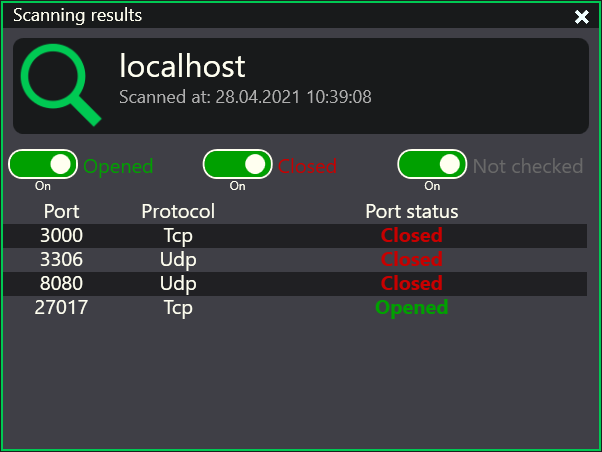
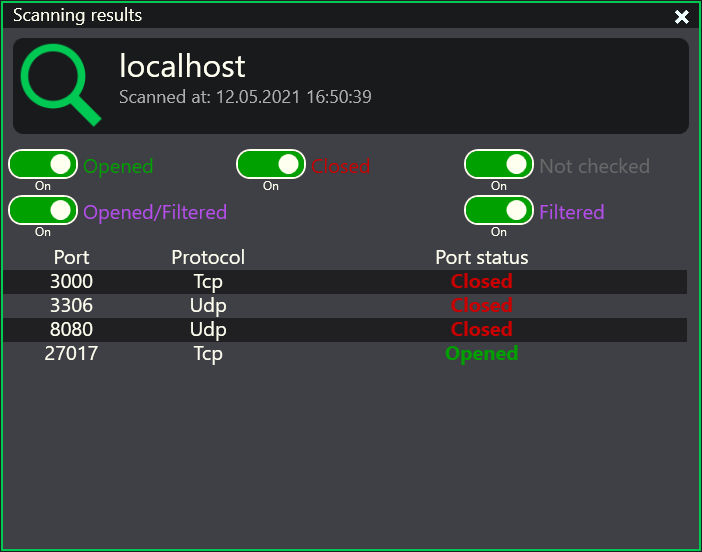
Edit: README and CHANGELOG has been edited - app preparing for v1.1.0 release;

Changed region(s): [[0.0, 0.0, 1.0, 1.0]]

diff --git a/Looto/Views/MainWindow.xaml b/Looto/Views/MainWindow.xaml
@@ -341,7 +341,7 @@
                            VerticalAlignment="Bottom"
                            TextAlignment="Right"
                            Margin="5"
-                           Text="Destry.Unimaster - v1.1.0 dev"/>
+                           Text="Destry.Unimaster - v1.1.0"/>
             </Grid>
         </StackPanel>
     </Border>

diff --git a/README.md b/README.md
@@ -9,8 +9,8 @@ Looto - multi-thread port scanner with powerful user-friendly GUI. Port scanning
 
 ## ⚡ Interface
 
-### 🔧 Main window
-Main window contains all inputs for settings scanning. Theese are inputs such as host for scanning and various settings to select required ports. You can choose your ports separately or choose the range of scanning ports. You can enter ports separately for each protocol or for all protocols at once.
+### 💻 Main window
+Main window contains all inputs for settings scanning. Theese are inputs such as host for scanning and various settings to select required ports. You can choose your ports separately or choose the range of scanning ports. You can enter ports separately for each protocol or for all protocols at once. From main window you have access to "Scanning history" and "Settings" windows.
 
 While the scan is in progress, you can see the progress bar.
 <img src="./README_RESOURCES/IM_1.png" style="display: block;margin-left: auto;margin-right: auto;">
@@ -21,40 +21,48 @@ While the scan is in progress, you can see the progress bar.
 <br/>
 
 ### ✔ Scan result
-After scanning you will see the scan result in an understandable form.
+After scanning you will see the scan result, turn on or turn off several port states to show. In "Settings" window you can configure sorting and render modes. 1 screenshot: Full render. 2 screenshot: Render as text.
 <img src="./README_RESOURCES/IM_4.png" style="display: block;margin-left: auto;margin-right: auto;">
 <img src="./README_RESOURCES/IM_5.png" style="display: block;margin-left: auto;margin-right: auto;">
-
----
-<br/>
-
-
-### 🔍 LAN List
-Scan your local network and get all devices IP in LAN. For convenience you can copy IP address from list to scan window with "Apply" button.
 <img src="./README_RESOURCES/IM_6.png" style="display: block;margin-left: auto;margin-right: auto;">
 
 ---
 <br/>
 
 
-### 📜 Scanning history
-You can see all your results of scanning that makes at last 3 days.
+### 🔍 LAN List
+Scan your local network and get all devices IP in LAN. For convenience you can copy IP address from list to scan window with "Apply" button. Also it shows how long you scan any hosts.
 <img src="./README_RESOURCES/IM_7.png" style="display: block;margin-left: auto;margin-right: auto;">
+
+---
+<br/>
+
+### 🔧 Settings
+Configure several aspects of working Looto. You can configure results window as you want. Configure processor working, and more...
+<img src="./README_RESOURCES/IM_8.png" style="display: block;margin-left: auto;margin-right: auto;">
+<img src="./README_RESOURCES/IM_9.png" style="display: block;margin-left: auto;margin-right: auto;">
+
+---
+<br/>
+
+### 📜 Scanning history
+You can see all your results of scanning that makes at last 3 days by default. In the "Settings" window you can change cache chuncks lifetime.
+<img src="./README_RESOURCES/IM_10.png" style="display: block;margin-left: auto;margin-right: auto;">
 
 ---
 <br/>
 
 ### ❌ Error handling
 If error was occured in theory app will not crash. It will show window about crash, then will write logs entries with EXCP type with creating bug report. You can write new issue as bug report [here](https://github.com/DES-Destry/Looto/issues/new?assignees=DES-Destry&labels=bug&template=bug_report.md&title=Looto+have+a+bug%21). For more informative of the bug you can send ".data" folder content to agafonovandrej69@gmail.com. I'll not check your ".data" folder without created issue!
-<img src="./README_RESOURCES/IM_8.png" style="display: block;margin-left: auto;margin-right: auto;">
+<img src="./README_RESOURCES/IM_11.png" style="display: block;margin-left: auto;margin-right: auto;">
 
 ---
 <br/>
 <br/>
 
 ## 📁 Install
-Lastest stable version of application will be available in [Releases](https://github.com/DES-Destry/Looto/releases) of [GitHub repository](https://github.com/DES-Destry/Looto). For stable working of application you need only one executable file "Looto.exe" and ".data" folder. Other files not necessary for application working, but still important.
-<img src="./README_RESOURCES/IM_9.png" style="display: block;margin-left: auto;margin-right: auto;">
+Lastest stable version of application will be available in [Releases](https://github.com/DES-Destry/Looto/releases) of [GitHub repository](https://github.com/DES-Destry/Looto). For stable working of application you need only one executable file "Looto.exe", all "*.dll" files and ".data" folder. Other files not necessary for application working, but still important.
+<img src="./README_RESOURCES/IM_12.png" style="display: block;margin-left: auto;margin-right: auto;">
 
 <br/>
 <br/>
@@ -62,7 +70,8 @@ Lastest stable version of application will be available in [Releases](https://gi
 ## 🔜 Coming soon...
 - At the moment this soft a little unfinished, but all mistakes will be fixed in the next versions of software.
 - Optimize memory using in port results render. If ports count is 65534 in result, then app uses ~1.2GB of RAM.
-- Make application flexible configurable with settings page.
 - Allow the user to save the results to files of vaious types.
+- More informative LAN scanner.
+- Multiple hosts choose in the port scanning.
 - Make application update system to ensure that the user always only has the latest version of app.
 - Check UDP ports with ICMP protocol.

diff --git a/CHANGELOG.md b/CHANGELOG.md
@@ -1,5 +1,14 @@
 # Versions
 
+## v1.1.0
+- Settings window has been added. Now Looto application have flexible configurable parameters.
+- Now Looto can manage maximum count of using processors cores for port scanner or LAN scanner.
+- Now Looto have configurable scanners. You can configure data sending timeout for the both protocols, host check timeout, cache chuncks lifetime and UDP port data receive timeout(for balancing beetwen "Opened" and "Opened / Filtered" states).
+- Results window now have several render modes: "Full render", "Render as text" and "Not render".
+- Results window now have several sorting modes: "By port value", "By port state" and "By port protocol". Also Looto can turn on or turn off DESC sorting mode.
+- "Opened / Filtered" state for UDP port has been added. This state applies to port if Looto connected to port successfully, but data from port not recieved.
+- Cache "Clear all" button has been added.
+
 ## v1.0.4
 - UDP port scanning was fixed.(in the previous version the app shows that all UDP ports have Opened state)
 - Scanning results cache was added. You can see your history in the "Scaning history" and LAN list shows how long you scanned any ports in the LAN. Cache stored in the .data\.cache file.
